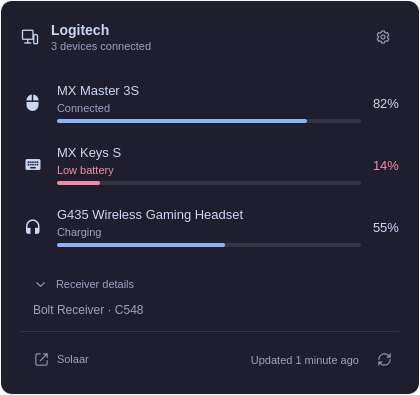
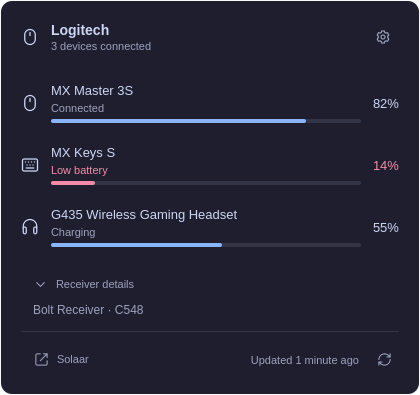
refactor(bolt): adopt foamy-kit 0.2.0
- FoamyPrefsQueue replaces the local pending-overlay and serialized CLI
  queue (same behaviour: values show at once, saves run in order, a failed
  CLI save restores the previous value, Retry).
- FoamySettingsState replaces editingSettings bookkeeping; Settings resets
  on close only, so the settings IPC on a closed popup lands on Settings.
- Header icon is the kit's Lucide mouse (was the devices stand-in); device
  rows use Lucide mouse/keyboard/headphones instead of Nerd glyphs.
- Tests: kit node-loader, FoamyCursor.emitTextKey for both hosts' textKey,
  a settings-IPC-on-closed-popup check. Dropdowns audited: all bound.

diff --git a/Panel.qml b/Panel.qml
@@ -5,7 +5,6 @@ import qs.Commons
 import qs.Commons as Commons
 import qs.Ui
 import "kit"
-import "kit/FoamyPrefs.js" as Prefs
 import "Preferences.js" as Schema
 import "Model.js" as Model
 
@@ -25,22 +24,19 @@ Panel {
   // Nerd Font bolt (U+F0E7), escaped so editors and terminals can't drop the private-use glyph.
   readonly property string barGlyph: "\uf0e7"
 
-  // Saved values show right away, before the host hands back new settings.
-  property var pendingSettings: ({})
-  readonly property var effectiveSettings: mergedSettings()
-  readonly property var preferences: Prefs.values(Schema.fields, effectiveSettings)
-  function mergedSettings() {
-    var out = {}
-    var key
-    for (key in (settings || {})) out[key] = settings[key]
-    for (key in pendingSettings) out[key] = pendingSettings[key]
-    return out
+  // Saves go through one queue (inline, else the CLI one at a time); saved
+  // values show right away, before the host hands back new settings.
+  FoamyPrefsQueue {
+    id: prefs
+    bar: root.bar
+    moduleName: root.moduleName
+    fields: Schema.fields
+    settings: root.settings
   }
-  onSettingsChanged: {
-    var left = {}
-    for (var key in pendingSettings) if (!settings || JSON.stringify(settings[key]) !== JSON.stringify(pendingSettings[key])) left[key] = pendingSettings[key]
-    pendingSettings = left
-  }
+  readonly property alias prefs: prefs
+  readonly property var preferences: prefs.values()
+  readonly property alias settingsState: settingsState
+  FoamySettingsState { id: settingsState; panel: root }
 
   readonly property var payload: BoltService.payload
   readonly property var onlineDevices: payload.devices.filter(function(d) { return d.online })
@@ -50,12 +46,8 @@ Panel {
   readonly property bool degraded: ["error", "partial", "unavailable"].indexOf(payload.status) >= 0
   readonly property bool showPercentage: lowestBattery !== null && (preferences.barPercentage === "always" || preferences.barPercentage === "low" && lowBattery)
 
-  property bool editingSettings: false
+  readonly property bool editingSettings: settingsState.editing
   property bool receiverDetails: false
-  property bool saving: false
-  property string settingsError: ""
-  property var lastSave: null
-  property var saveQueue: []
   property string launchError: ""
 
   visible: opened || !preferences.hideWhenAbsent || payload.status !== "absent"
@@ -94,54 +86,14 @@ Panel {
   function refresh(force) { BoltService.refresh(force === true) }
 
   function openSettings() {
-    editingSettings = true
-    open()
+    settingsState.show()
     Qt.callLater(function() { if (popup.bodyItem && root.editingSettings) popup.bodyItem.focusSettings() })
   }
   function closeSettings() {
-    editingSettings = false
+    settingsState.hide()
     Qt.callLater(function() { if (popup.bodyItem) popup.bodyItem.forceActiveFocus() })
   }
-
-  function save(key, value) {
-    settingsError = ""
-    lastSave = { key: key, value: value }
-    var result = Prefs.save(root.bar, root.moduleName, Schema.fields, effectiveSettings, key, value)
-    // Invalid values are not retryable; failed writes are.
-    if (!result.ok) { settingsError = FoamyI18n.t(result.error); lastSave = null; return }
-    if (!result.changed) return
-    var next = {}
-    for (var k in pendingSettings) next[k] = pendingSettings[k]
-    next[key] = value
-    pendingSettings = next
-    if (result.command.length === 0) { lastSave = null; return }
-    // Run CLI saves one at a time so rapid edits cannot race.
-    saveQueue = saveQueue.concat([result.command])
-    runSaves()
-  }
-  function runSaves() {
-    if (saveProcess.running || saveQueue.length === 0) return
-    saving = true
-    saveProcess.command = saveQueue[0]
-    saveQueue = saveQueue.slice(1)
-    saveProcess.running = true
-  }
-  function retrySave() { if (lastSave) save(lastSave.key, lastSave.value) }
-
-  Process {
-    id: saveProcess
-    onExited: function(code) {
-      if (code !== 0) {
-        root.settingsError = FoamyI18n.t("Couldn't save the setting.")
-        root.pendingSettings = ({})
-        root.saveQueue = []
-      } else if (root.saveQueue.length === 0) {
-        root.lastSave = null
-      }
-      root.saving = root.saveQueue.length > 0
-      Qt.callLater(root.runSaves)
-    }
-  }
+  function save(key, value) { return prefs.save(key, value) }
 
   function tooltip() {
     var brand = FoamyI18n.t("Logitech")
@@ -165,11 +117,8 @@ Panel {
     }
   }
 
-  onOpenedChanged: {
-    if (!opened) { editingSettings = false; return }
-    // Opening asks the running helper for a fresh reading.
-    refresh(false)
-  }
+  // Opening asks the running helper for a fresh reading (settingsState resets on close).
+  onOpenedChanged: if (opened) refresh(false)
 
   WidgetButton {
     id: button
@@ -207,9 +156,9 @@ Panel {
         settings: root.preferences
         shown: root.opened
         editingSettings: root.editingSettings
-        saving: root.saving
-        settingsError: root.settingsError
-        retryable: root.settingsError !== "" && root.lastSave !== null
+        saving: prefs.busy
+        settingsError: prefs.error ? FoamyI18n.t(prefs.error) : ""
+        retryable: prefs.canRetry
         refreshing: BoltService.refreshing
         lastUpdatedAt: BoltService.lastUpdatedAt
         launchError: root.launchError
@@ -221,8 +170,8 @@ Panel {
         onSolaarRequested: root.openSolaar()
         onReceiverDetailsToggled: root.receiverDetails = !root.receiverDetails
         onSaveRequested: function(key, value) { root.save(key, value) }
-        onRetryRequested: root.retrySave()
-        onErrorCleared: if (!root.saving) root.settingsError = ""
+        onRetryRequested: prefs.retry()
+        onErrorCleared: if (!prefs.busy && !prefs.canRetry) prefs.error = ""
         onSwitchPanelRequested: function(direction) { root.switchPanel(direction) }
       }
     }

diff --git a/DeviceView.qml b/DeviceView.qml
@@ -19,8 +19,8 @@ Rectangle {
   readonly property color nameColor: online ? FoamyPalette.text : FoamyPalette.secondaryText
   readonly property color readingColor: low ? Commons.Color.urgent : nameColor
   readonly property color levelColor: low ? Commons.Color.urgent : Commons.Color.accent
-  // Nerd Font glyphs, escaped so editors and tools can't strip them.
-  readonly property string icon: device.kindIcon === "mouse" ? "\u{f037d}" : device.kindIcon === "keyboard" ? "\u{f030c}" : device.kindIcon === "headset" ? "\u{f02cb}" : "\u{f00af}"
+  // Lucide icons from the kit (one icon set across foamy plugins).
+  readonly property string icon: device.kindIcon === "mouse" ? "mouse" : device.kindIcon === "keyboard" ? "keyboard" : device.kindIcon === "headset" ? "headphones" : "devices"
   readonly property string reading: hasBattery ? FoamyI18n.t("%1%", level) : "—"
   readonly property string stateText: FoamyI18n.t(!online ? "Offline" : device.charging ? "Charging" : !hasBattery ? "Battery unavailable" : low ? "Low battery" : "Connected")
 
@@ -37,7 +37,7 @@ Rectangle {
     anchors.right: parent.right
     anchors.verticalCenter: parent.verticalCenter
     spacing: FoamyStyle.gapLarge
-    OpticalGlyph { text: root.icon; fontFamily: Style.font.family; fontSize: FoamyStyle.font.iconLarge; color: root.nameColor; width: Style.space(24); height: Style.space(24) }
+    FoamyIcon { name: root.icon; color: root.nameColor; Layout.preferredWidth: FoamyStyle.headerIconSize; Layout.preferredHeight: FoamyStyle.headerIconSize; Layout.alignment: Qt.AlignVCenter }
     ColumnLayout {
       Layout.fillWidth: true
       spacing: FoamyStyle.gapSmall
@@ -64,7 +64,7 @@ Rectangle {
     anchors.top: parent.top
     anchors.margins: FoamyStyle.sectionGap
     spacing: FoamyStyle.gap
-    OpticalGlyph { text: root.icon; fontFamily: Style.font.family; fontSize: FoamyStyle.font.iconLarge; color: root.nameColor; width: Style.space(24); height: Style.space(24) }
+    FoamyIcon { name: root.icon; color: root.nameColor; width: FoamyStyle.headerIconSize; height: FoamyStyle.headerIconSize }
     Text { width: parent.width; text: root.reading; textFormat: Text.PlainText; horizontalAlignment: Text.AlignLeft; color: root.readingColor; font.family: FoamyStyle.fontFamily; font.pixelSize: FoamyStyle.font.displayLarge }
     // Reserve two name lines so paired tiles keep readings and tracks aligned.
     FontMetrics { id: nameMetrics; font.family: FoamyStyle.fontFamily; font.pixelSize: FoamyStyle.font.subtitle }

diff --git a/tests/qml/Runtime.qml b/tests/qml/Runtime.qml
@@ -64,10 +64,9 @@ ShellRoot {
     }
   }
 
-  // 4.5 emits textKey(text, modifiers); 4.0 textKey(text).
-  function key(view, text) {
-    try { view.textKey(text, 0) } catch (error) { view.textKey(text) }
-  }
+  // textKey is (text) on 4.0 and (text, modifiers) on 4.5: the kit emits the right one.
+  FoamyCursor { id: keys }
+  function key(view, text) { keys.emitTextKey(view, text, 0) }
   function findByName(item, name) {
     if (!item) return null
     if (item.objectName === name) return item
@@ -154,7 +153,8 @@ ShellRoot {
     eq(first.preferences.layout, "tiles", "saved value shows before the host reloads")
     first.save("refreshSeconds", 12)
     eq(mockBar.saved.length, 1, "invalid value not saved")
-    check(first.settingsError !== "", "invalid value reported")
+    check(first.prefs.error !== "", "invalid value reported")
+    check(view.settingsError !== "", "the settings page shows it")
     first.closeSettings()
     eq(view.blocked, false, "back from Settings")
     first.close()
@@ -166,6 +166,14 @@ ShellRoot {
     eq(service.refreshing, false, "refresh answered")
     eq(service.payload.receivers.length ? service.payload.receivers[0].productId : "", "N2", "open + r: two refresh commands reached the one helper")
     check(service.lastUpdatedAt > 0, "snapshot time kept")
+    // The settings IPC on a closed popup opens it on Settings (FoamySettingsState).
+    var first = panels.itemAt(0)
+    eq(first.opened, false, "popup closed")
+    first.openSettings()
+    eq(first.opened, true, "settings opens the popup")
+    eq(first.editingSettings, true, "and lands on Settings")
+    first.close()
+    eq(first.editingSettings, false, "Settings resets on close")
     service.helper.signal(15)
     after(700, stepFour)
   }

diff --git a/tests/model-test.js b/tests/model-test.js
@@ -1,12 +1,8 @@
 const assert = require('node:assert/strict')
 const fs = require('node:fs')
 const path = require('node:path')
-const vm = require('node:vm')
 const M = require('../Model.js'), Schema = require('../Preferences.js'), manifest = require('../manifest.json')
-// kit/FoamyPrefs.js is a QML JS library; load it in a sandbox without its pragma.
-const sandbox = { module: { exports: {} }, console: { log() {}, warn() {} } }
-vm.runInNewContext(fs.readFileSync(path.join(__dirname, '../kit/FoamyPrefs.js'), 'utf8').replace(/^\.pragma library\s*$/m, ''), sandbox)
-const Prefs = sandbox.module.exports
+const Prefs = require('../kit/node-loader.cjs').load('FoamyPrefs')
 const I18n = require('./i18n.cjs')
 
 for (const v of [null, undefined, '0', NaN, Infinity, -1, 101, false]) assert.equal(M.battery(v), null)

diff --git a/BoltView.qml b/BoltView.qml
@@ -125,8 +125,7 @@ PanelKeyCatcher {
     FoamyHeader {
       id: header
       width: parent.width
-      // kit has no Lucide "mouse" yet (kit issue filed); "devices" is the closest.
-      iconName: "devices"
+      iconName: "mouse"
       title: FoamyI18n.t("Logitech")
       meta: root.loading ? FoamyI18n.t("Reading devices…") : FoamyI18n.tn("%1 devices connected", root.onlineCount)
       settingsHasCursor: root.hasCursor("settings")
